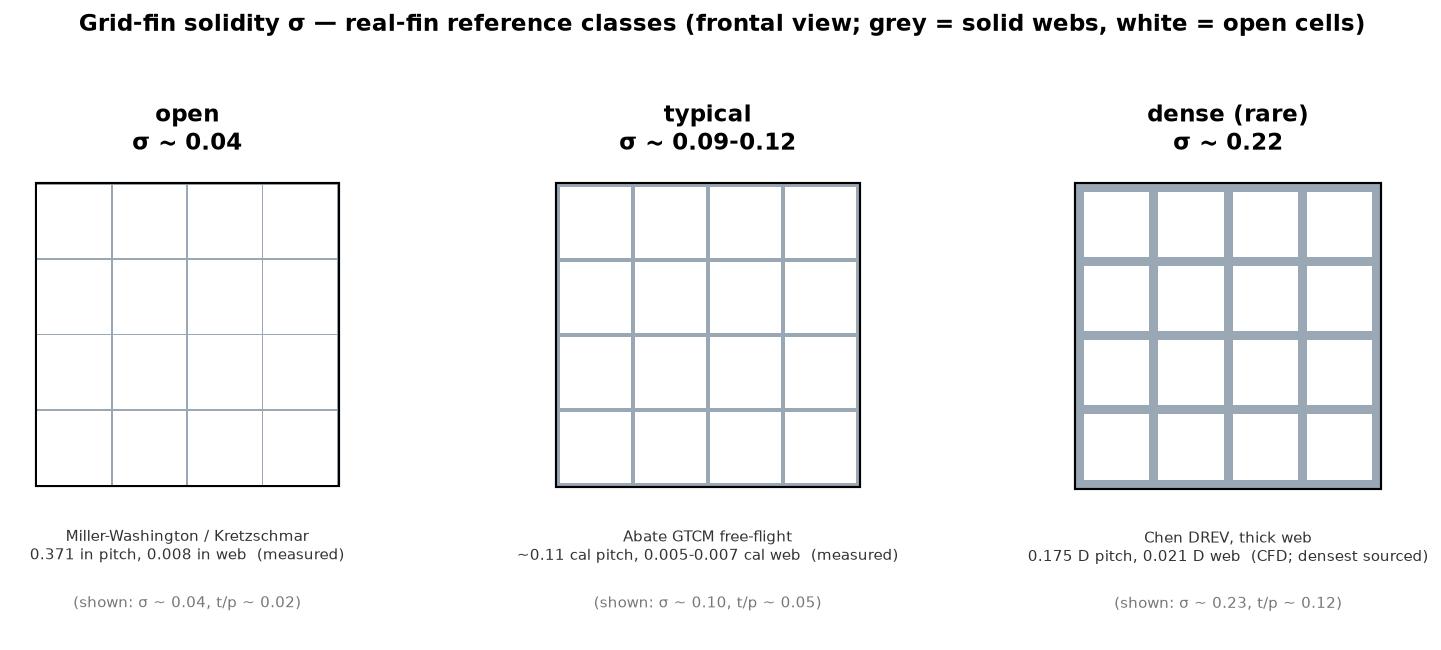
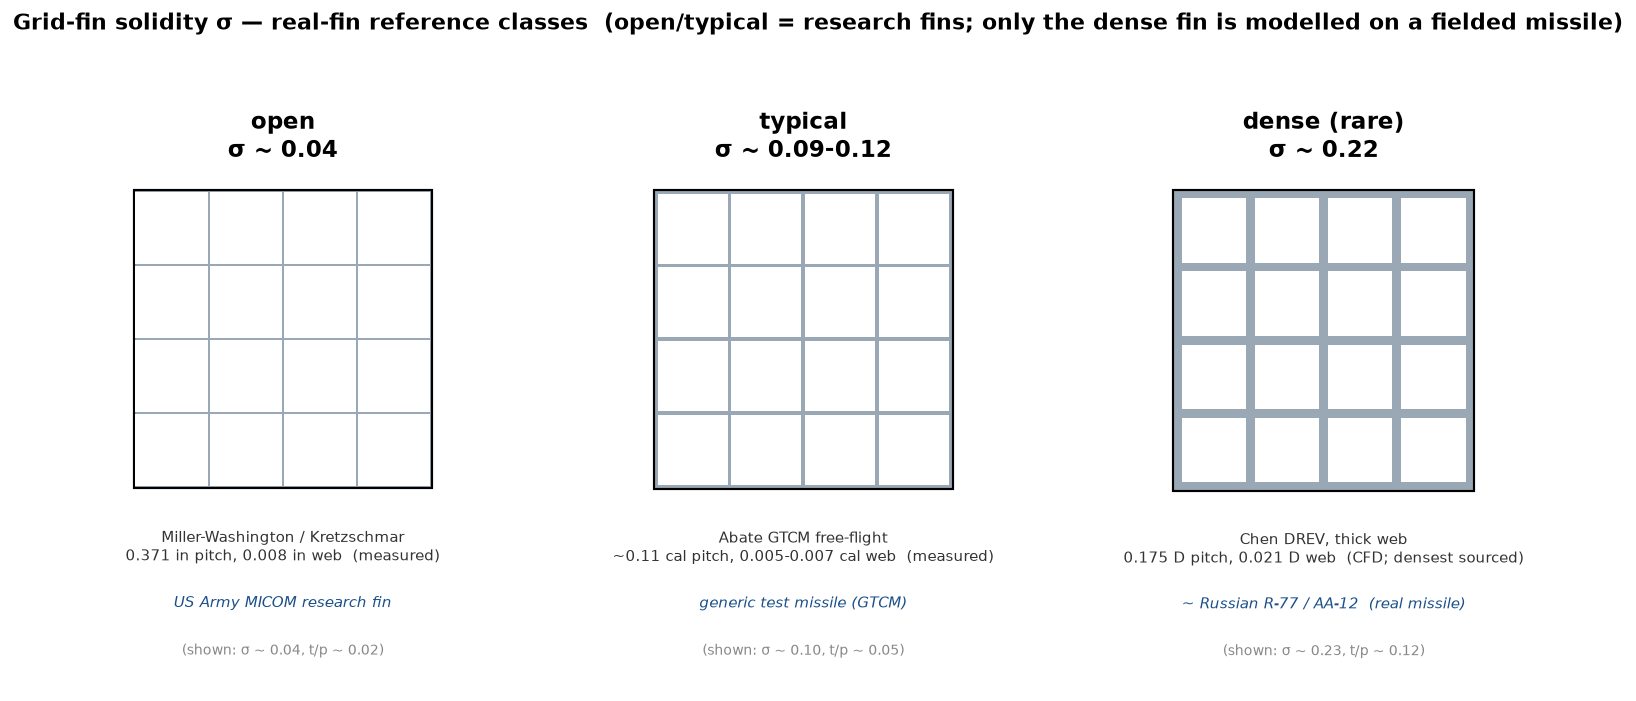
Note provenance of σ reference fins (research/generic vs fielded)
Answer to "do these correspond to real rockets?": mostly no. Annotate the
classes diagram and METHODS so the fin names aren't mistaken for fielded
hardware:
- open  (σ~0.04): US Army Missile Command (MICOM) grid-fin R&D fin.
- typical (σ~0.09-0.12): Abate's explicitly "Generic" Tail Control Missile.
- dense (σ~0.22): Chen/DREV fin, modelled to resemble the Russian
  R-77 / AA-12 "Adder" — the only anchor tied to a fielded weapon.

So the bands reflect grid-fin technology as tested in the open literature,
with one real-missile data point at the dense end.

Claude-Session: https://claude.ai/code/session_01BAmco7Mc9kHrQ7ueHuHumV

diff --git a/docs/make_grid_fin_diagram.py b/docs/make_grid_fin_diagram.py
@@ -65,15 +65,18 @@ def make_classes(out=None):
     # Real measured hardware is dominated by very open, thin-web lattices.
     classes = [
         ("open", "σ ~ 0.04", 0.043,
-         "Miller-Washington / Kretzschmar\n0.371 in pitch, 0.008 in web  (measured)"),
+         "Miller-Washington / Kretzschmar\n0.371 in pitch, 0.008 in web  (measured)",
+         "US Army MICOM research fin"),
         ("typical", "σ ~ 0.09-0.12", 0.10,
-         "Abate GTCM free-flight\n~0.11 cal pitch, 0.005-0.007 cal web  (measured)"),
+         "Abate GTCM free-flight\n~0.11 cal pitch, 0.005-0.007 cal web  (measured)",
+         "generic test missile (GTCM)"),
         ("dense (rare)", "σ ~ 0.22", 0.225,
-         "Chen DREV, thick web\n0.175 D pitch, 0.021 D web  (CFD; densest sourced)"),
+         "Chen DREV, thick web\n0.175 D pitch, 0.021 D web  (CFD; densest sourced)",
+         "~ Russian R-77 / AA-12  (real missile)"),
     ]
-    fig, axes = plt.subplots(1, 3, figsize=(12.0, 5.0))
+    fig, axes = plt.subplots(1, 3, figsize=(12.0, 5.4))
     n, p = 4, 1.0
-    for ax, (name, rng, sig, cite) in zip(axes, classes):
+    for ax, (name, rng, sig, cite, prov) in zip(axes, classes):
         t = tp(sig) * p; L = n * p + t; win = p - t
         ax.add_patch(Rectangle((0, 0), L, L, facecolor="#9aa7b4",
                                edgecolor="black", lw=1.2))
@@ -84,13 +87,16 @@ def make_classes(out=None):
         ax.set_title(f"{name}\n{rng}", fontsize=13, weight='bold')
         ax.text(L / 2, -0.55, cite, ha='center', va='top', fontsize=8.5,
                 color="#333")
-        ax.text(L / 2, -1.45, f"(shown: σ ~ {sig:.2f}, t/p ~ {tp(sig):.2f})",
-                ha='center', va='top', fontsize=8.5, color="#777")
-        ax.set_xlim(-0.3, L + 0.3); ax.set_ylim(-2.0, L + 0.3)
+        ax.text(L / 2, -1.45, prov, ha='center', va='top', fontsize=8.5,
+                color="#1a4f8a", style='italic')
+        ax.text(L / 2, -2.10, f"(shown: σ ~ {sig:.2f}, t/p ~ {tp(sig):.2f})",
+                ha='center', va='top', fontsize=8, color="#888")
+        ax.set_xlim(-0.3, L + 0.3); ax.set_ylim(-2.7, L + 0.3)
         ax.set_aspect('equal'); ax.axis('off')
-    fig.suptitle("Grid-fin solidity σ — real-fin reference classes "
-                 "(frontal view; grey = solid webs, white = open cells)",
-                 fontsize=13, weight='bold', y=0.99)
+    fig.suptitle("Grid-fin solidity σ — real-fin reference classes  "
+                 "(open/typical = research fins; only the dense fin is modelled "
+                 "on a fielded missile)",
+                 fontsize=12, weight='bold', y=0.99)
     fig.tight_layout(rect=[0, 0, 1, 0.94])
     fig.savefig(out, dpi=130, bbox_inches='tight')
     print("wrote", out)

diff --git a/METHODS.md b/METHODS.md
@@ -1378,7 +1378,16 @@ to supply it:
 
   See `docs/grid_fin_solidity_classes.png` for these three real fins side by
   side. (Earlier drafts used invented bands of 0.10–0.30; those were not anchored
-  to data and read too dense — corrected here against the cited geometry.) When σ
+  to data and read too dense — corrected here against the cited geometry.)
+
+  *Provenance:* these are mostly **research / generic test fins**, not fielded
+  hardware — the open anchor is the US Army Missile Command (MICOM) grid-fin
+  R&D fin, and the typical anchor is Abate's explicitly "Generic" Tail Control
+  Missile. The **only one tied to a fielded weapon is the dense anchor**: the
+  Chen/DREV fin is modelled to resemble the **Russian R-77 / AA-12 "Adder"**
+  (a grid-finned air-to-air missile). So the bands reflect grid-fin *technology*
+  as tested in the open literature, with one real-missile data point at the
+  dense end. When σ
   is given without a pitch, a representative cell count (`_GRIDFIN_DEFAULT_CELLS`
   = 10) sets the wetted area for the *secondary* friction term only.
 
